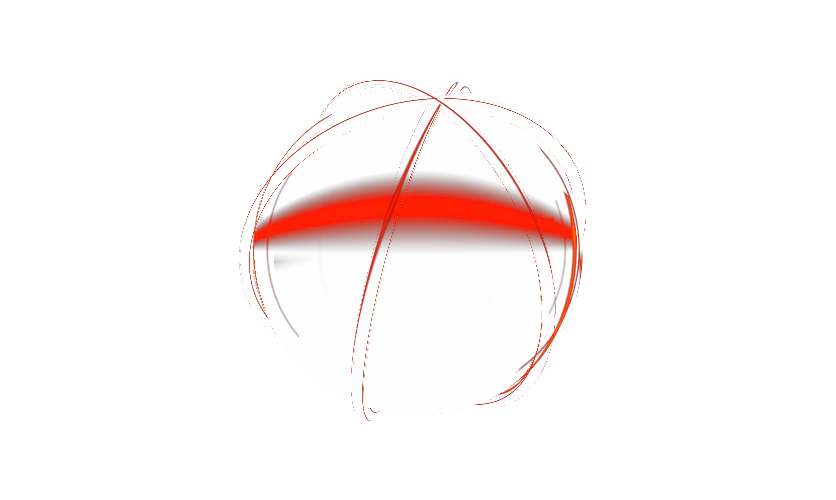
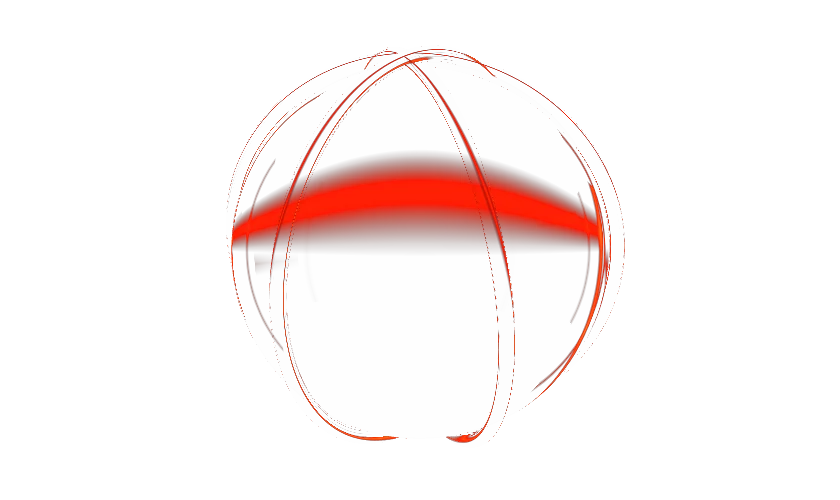
fix: WHAT WE DO 멈춘 그림을 정면 각도로 다시 렌더
Claude-Session: https://claude.ai/code/session_01K6wp9fSxNiTgdEQgPG11gJ

diff --git a/index.html b/index.html
@@ -25,7 +25,7 @@
   <link rel="stylesheet" href="https://fonts.googleapis.com/css2?family=Geist:wght@400;600&family=Instrument+Serif:ital@0;1&display=swap">
   <link rel="stylesheet" href="https://cdn.jsdelivr.net/gh/orioncactus/pretendard@v1.3.9/dist/web/variable/pretendardvariable-dynamic-subset.min.css">
   <link rel="preload" as="image" href="img/release-keyveatz-oxygen.webp">
-  <link rel="stylesheet" href="css/style.css?v=20261030-neon1">
+  <link rel="stylesheet" href="css/style.css?v=20261030-neon2">
   <script type="importmap">{ "imports": { "three": "./js/vendor/three.module.min.js" } }</script>
 </head>
 <body class="page-home">
@@ -281,13 +281,13 @@
 
   <img class="artist-preview" alt="" aria-hidden="true">
 
-  <script src="js/data.js?v=20261030-neon1"></script>
-  <script src="js/player.js?v=20261030-neon1"></script>
-  <script src="js/script.js?v=20261030-neon1"></script>
-  <script src="js/effects.js?v=20261030-neon1"></script>
+  <script src="js/data.js?v=20261030-neon2"></script>
+  <script src="js/player.js?v=20261030-neon2"></script>
+  <script src="js/script.js?v=20261030-neon2"></script>
+  <script src="js/effects.js?v=20261030-neon2"></script>
   <script type="module">
-    import { createSoundScene } from './js/sound3d.js?v=20261030-neon1';
-    import { createLogoScene } from './js/logo3d.js?v=20261030-neon1';
+    import { createSoundScene } from './js/sound3d.js?v=20261030-neon2';
+    import { createLogoScene } from './js/logo3d.js?v=20261030-neon2';
     const section = document.getElementById('sound');
     const heroEl = document.getElementById('hero');
     const np = document.getElementById('np');
@@ -339,7 +339,7 @@
       .catch((e) => { console.warn(e); document.documentElement.classList.add('no-webgl'); });
     createLogoScene(document.getElementById('footer-canvas'), { mode: 'footer', interactive: false }).catch(() => {});
     // WHAT WE DO 카드 3D 오브제: 실패하면 미리 렌더한 이미지가 그대로 보임
-    import('./js/wwd3d.js?v=20261030-neon1').then((m) => m.initWwd3D(document.getElementById('what-we-do'))).catch(() => {});
+    import('./js/wwd3d.js?v=20261030-neon2').then((m) => m.initWwd3D(document.getElementById('what-we-do'))).catch(() => {});
   </script>
 </body>
 </html>

diff --git a/artist.html b/artist.html
@@ -24,7 +24,7 @@
   <link rel="stylesheet" href="https://fonts.googleapis.com/css2?family=Geist:wght@400;600&family=Instrument+Serif:ital@0;1&display=swap">
   <link rel="stylesheet" href="https://cdn.jsdelivr.net/gh/orioncactus/pretendard@v1.3.9/dist/web/variable/pretendardvariable-dynamic-subset.min.css">
   <link rel="preload" as="image" href="img/artist-keyveatz.webp">
-  <link rel="stylesheet" href="css/style.css?v=20261030-neon1">
+  <link rel="stylesheet" href="css/style.css?v=20261030-neon2">
   <script type="importmap">{ "imports": { "three": "./js/vendor/three.module.min.js" } }</script>
 </head>
 <body class="page-artist">
@@ -146,12 +146,12 @@
     <div class="player__end"><button class="cta player__audio" type="button" data-action="audio-toggle" aria-pressed="false" aria-label="소리 켜기"><span class="cta__label" data-copy="audio.on">AUDIO ON</span></button><button class="cta" type="button" data-action="player-close" aria-label="플레이어 접기"><span class="cta__label">CLOSE</span></button></div>
   </div>
 
-  <script src="js/data.js?v=20261030-neon1"></script>
-  <script src="js/player.js?v=20261030-neon1"></script>
-  <script src="js/script.js?v=20261030-neon1"></script>
-  <script src="js/effects.js?v=20261030-neon1"></script>
+  <script src="js/data.js?v=20261030-neon2"></script>
+  <script src="js/player.js?v=20261030-neon2"></script>
+  <script src="js/script.js?v=20261030-neon2"></script>
+  <script src="js/effects.js?v=20261030-neon2"></script>
   <script type="module">
-    import { createLogoScene } from './js/logo3d.js?v=20261030-neon1';
+    import { createLogoScene } from './js/logo3d.js?v=20261030-neon2';
     createLogoScene(document.getElementById('footer-canvas'), { mode: 'footer', interactive: false }).catch(() => {});
   </script>
 </body>

diff --git a/css/style.css b/css/style.css
@@ -646,7 +646,7 @@ html.js [data-reveal].is-in { opacity: 1; transform: none; }
 .wwd__desc { grid-column: 1 / -1; font-size: 14px; line-height: 1.6; color: rgba(255, 255, 255, 0.72); }
 .wwd__obj { position: relative; height: 250px; background: radial-gradient(60% 70% at 50% 55%, rgba(255, 59, 31, 0.16), rgba(255, 59, 31, 0) 70%); }
 .wwd__obj img, .wwd__canvas { position: absolute; inset: 0; width: 100%; height: 100%; object-fit: contain; }
-.wwd__obj img { transform: scale(1.08); }
+.wwd__obj img { transform: none; } /* 멈춘 그림은 모양이 가장 잘 보이는 정면 각도로 따로 렌더 (22차) */
 /* 22차: 주황 네온 — 빛난 곳 둘레만 은은하게 번짐 (캔버스·이미지 모두 투명 배경) */
 .wwd__obj img, .wwd__canvas { filter: drop-shadow(0 0 8px rgba(255, 74, 31, 0.55)) drop-shadow(0 0 22px rgba(255, 59, 31, 0.25)); }
 .wwd__obj.is-3d img { visibility: hidden; }

diff --git a/docs/static-page-fix-log.md b/docs/static-page-fix-log.md
@@ -250,3 +250,4 @@
 |---|---|---|---|
 | 90 | 변경 | 오브제 재질: 은색 금속 → 매끈한 투명 유리. 몸통은 비치고, 유리 안에 주황 네온관이 비치듯 가장자리 곡선을 따라 주황 빛이 흐름(무지개 분산·흰 빛 없음). 둘레에 은은한 번짐(CSS drop-shadow). 유리 덩어리는 각진 다면체 → 매끈한 조약돌. 한 바퀴 약 9초 | `js/wwd3d.js`, `css/style.css` |
 | 91 | 변경 | 3D는 1024px 이상에서만(카드가 고정되는 폭과 같게). 그 외·동작 줄이기·실패 시 같은 네온 재질로 미리 렌더한 투명 이미지 | `js/wwd3d.js`, `img/wwd-*.webp` |
+| 92 | 변경 | 멈춘 그림(1024px 미만·동작 줄이기)을 회전 중 한 장면 → 모양이 잘 보이는 정면 각도로 따로 렌더하고 조금 크게 (CD 정면, 반짝임 정면) | `img/wwd-*.webp`, `css/style.css` |
